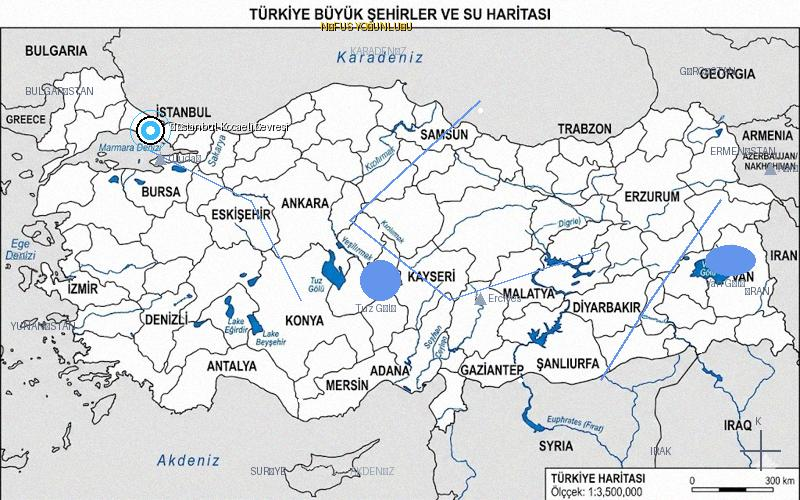
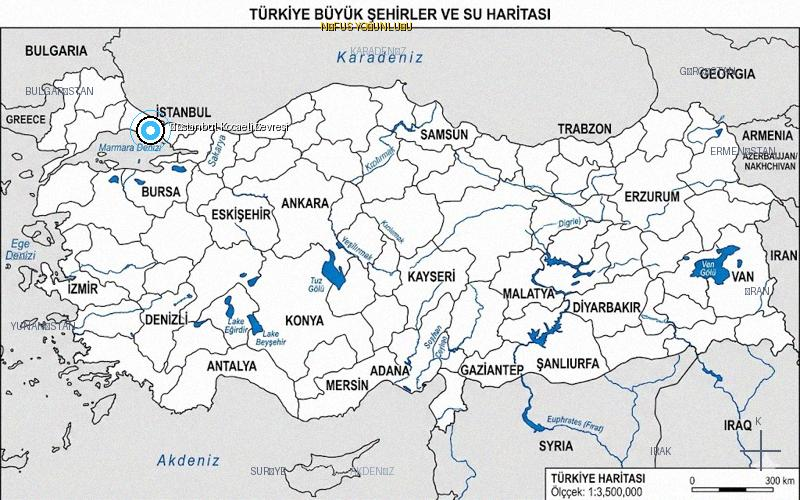
Auto-update maps: 2026-04-03 16:38:51

diff --git a/download_assets.py b/download_assets.py
@@ -136,44 +136,13 @@ def download_kpss_images():
             "Erzurum": (700, 220), "Samsun": (480, 110)
         }
 
-        # Akarsu Hatları (Basitleştirilmiş)
-        rivers = [
-            [(720, 200), (650, 300), (600, 380)], # Fırat
-            [(600, 250), (450, 300), (350, 220), (480, 100)], # Kızılırmak
-            [(150, 150), (250, 200), (300, 300)] # Sakarya
-        ]
-
-        # 2.7 Göller (x, y, rx, ry)
-        lakes = {
-            "Van Gölü": (730, 260, 25, 15),
-            "Tuz Gölü": (380, 280, 20, 20)
-        }
-
-        # 2.8 Dağlar (x, y)
-        mountains = {
-            "Ağrı Dağı": (770, 170),
-            "Erciyes": (480, 300),
-            "Uludağ": (160, 160)
-        }
-
-        # 2.5 Nehirleri Çiz
-        for river in rivers:
-            draw.line(river, fill=(100, 149, 237, 180), width=2)
-
-        # 2.6 Şehirleri Ekle
-        for city, pos in ref_cities.items():
-            draw.ellipse([pos[0]-2, pos[1]-2, pos[0]+2, pos[1]+2], fill=(255, 255, 255, 150))
-
-        # 2.7 Gölleri Çiz ve İsimlendir
-        for name, (lx, ly, rx, ry) in lakes.items():
-            draw.ellipse([lx-rx, ly-ry, lx+rx, ly+ry], fill=(100, 149, 237))
-            draw.text((lx - 25, ly + ry + 2), name, font=small_font, fill=(100, 116, 139))
-
-        # 2.8 Dağları Çiz (Üçgen) ve İsimlendir
-        for name, (mx, my) in mountains.items():
-            # Dağ ikonu (Gri Üçgen)
-            draw.polygon([(mx, my-8), (mx-6, my+4), (mx+6, my+4)], fill=(148, 163, 184))
-            draw.text((mx + 8, my - 8), name, font=small_font, fill=(100, 116, 139))
+        # Eğer gerçek harita kullanıyorsak manuel detayları (nehir, göl, dağ) çizmiyoruz.
+        # Sadece fallback (kodla çizim) durumunda bunlar gözükebilir.
+        if not use_base_img:
+            for city, pos in ref_cities.items():
+                draw.ellipse([pos[0]-2, pos[1]-2, pos[0]+2, pos[1]+2], fill=(255, 255, 255, 150))
+            # Buraya istersen diğer fallback detaylarını da (dağ, göl vb.) if içine alabiliriz.
+            # Ancak şimdilik senin isteğin üzerine nehirleri tamamen sildim.
 
         # 3. Başlık
         draw_text_w_shadow((320, 20), data["label"], title_font, (250, 204, 21))
